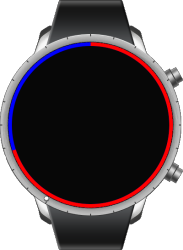
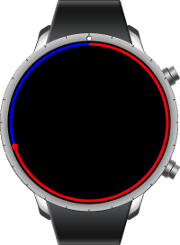
Update component-circle-slider.md and related images.

diff --git a/docs/application/native/guides/ui/efl/wearable/component-circle-slider.md b/docs/application/native/guides/ui/efl/wearable/component-circle-slider.md
@@ -66,6 +66,8 @@ eext_circle_object_value_min_max_set(slider, 0.0, 10.0);
 eext_circle_object_value_set(slider, 5.0);
 
 eext_circle_object_color_set(slider, 255, 0, 0, 255);
+eext_circle_object_item_color_set(slider, "cue", 255, 0, 0, 255);
+eext_circle_object_item_color_set(slider, "effect", 255, 0, 0, 128);
 
 eext_rotary_object_event_activated_set(slider, EINA_TRUE);
 evas_object_smart_callback_add(slider, "value,changed", _value_changed_cb, 0);
@@ -88,7 +90,7 @@ You can modify the circle slider properties using the following functions.
 | `eext_circle_object_color_set()`<br>`eext_circle_object_color_get()` | Set and get the color of circle line and font in the circle object. |
 | `eext_circle_object_disabled_set()`<br>`eext_circle_object_disabled_get()` | Set and get the disabled state of the circle object. |
 
-The circle slider consists of 2 parts, introduced in the following table.
+The circle slider consists of 4 parts, introduced in the following table.
 
 **Table: Circle slider items**
 <table>
@@ -96,8 +98,10 @@ The circle slider consists of 2 parts, introduced in the following table.
 <tr><th>Sample</th><th>Items</th></tr>
 </thead>
 <tbody>
-<tr><td rowspan="2"> <img alt="elm/slider/horizontal/warning" src="./media/circle_slider3.png" /></td>
+<tr><td rowspan="4"> <img alt="elm/slider/horizontal/warning" src="./media/circle_slider2.png" /></td>
 <td> <code>default</code>: Default circle item, which draws a slider bar.<br>This item represents the value of the circle slider, which is a red circular area in the left example.</td></tr>
+<tr><td> <code>cue</code>: Cue circle item, which is a touchable handle located at the end of the slider bar.</td></tr>
+<tr><td> <code>effect</code>: Cue effect circle item, which is a effect render when a cue item is touched.</td></tr>
 <tr><td> <code>bg</code>: Background circle item, which is a dark circular area in the left example. </td></tr>
 </tbody>
 </table>
@@ -118,10 +122,14 @@ eext_circle_object_value_set(slider, 5.0);
 
 /* Set red color */
 eext_circle_object_color_set(slider, 255, 0, 0, 255);
+eext_circle_object_item_color_set(slider, "cue", 255, 0, 0, 255);
+eext_circle_object_item_color_set(slider, "effect", 255, 0, 0, 128);
 
 /* Set a radius of the foreground circle to 70% of the original size */
 double default_radius = eext_circle_object_radius_get(slider);
 eext_circle_object_radius_set(slider, default_radius * 0.7);
+eext_circle_object_item_radius_set(slider, "cue", default_radius * 0.7);
+eext_circle_object_item_radius_set(slider, "effect", default_radius * 0.7);
 ```
 
 ![img](./media/circle_slider_practice_2.png)
@@ -134,6 +142,8 @@ slider = eext_circle_object_slider_add(ad->nf, ad->circle_surface);
 eext_circle_object_value_min_max_set(slider, 0.0, 10.0);
 eext_circle_object_value_set(slider, 5.0);
 eext_circle_object_color_set(slider, 255, 0, 0, 255);
+eext_circle_object_item_color_set(slider, "cue", 255, 0, 0, 255);
+eext_circle_object_item_color_set(slider, "effect", 255, 0, 0, 128);
 
 /* Set background color */
 eext_circle_object_item_color_set(slider, "bg", 0, 0, 255, 255);
